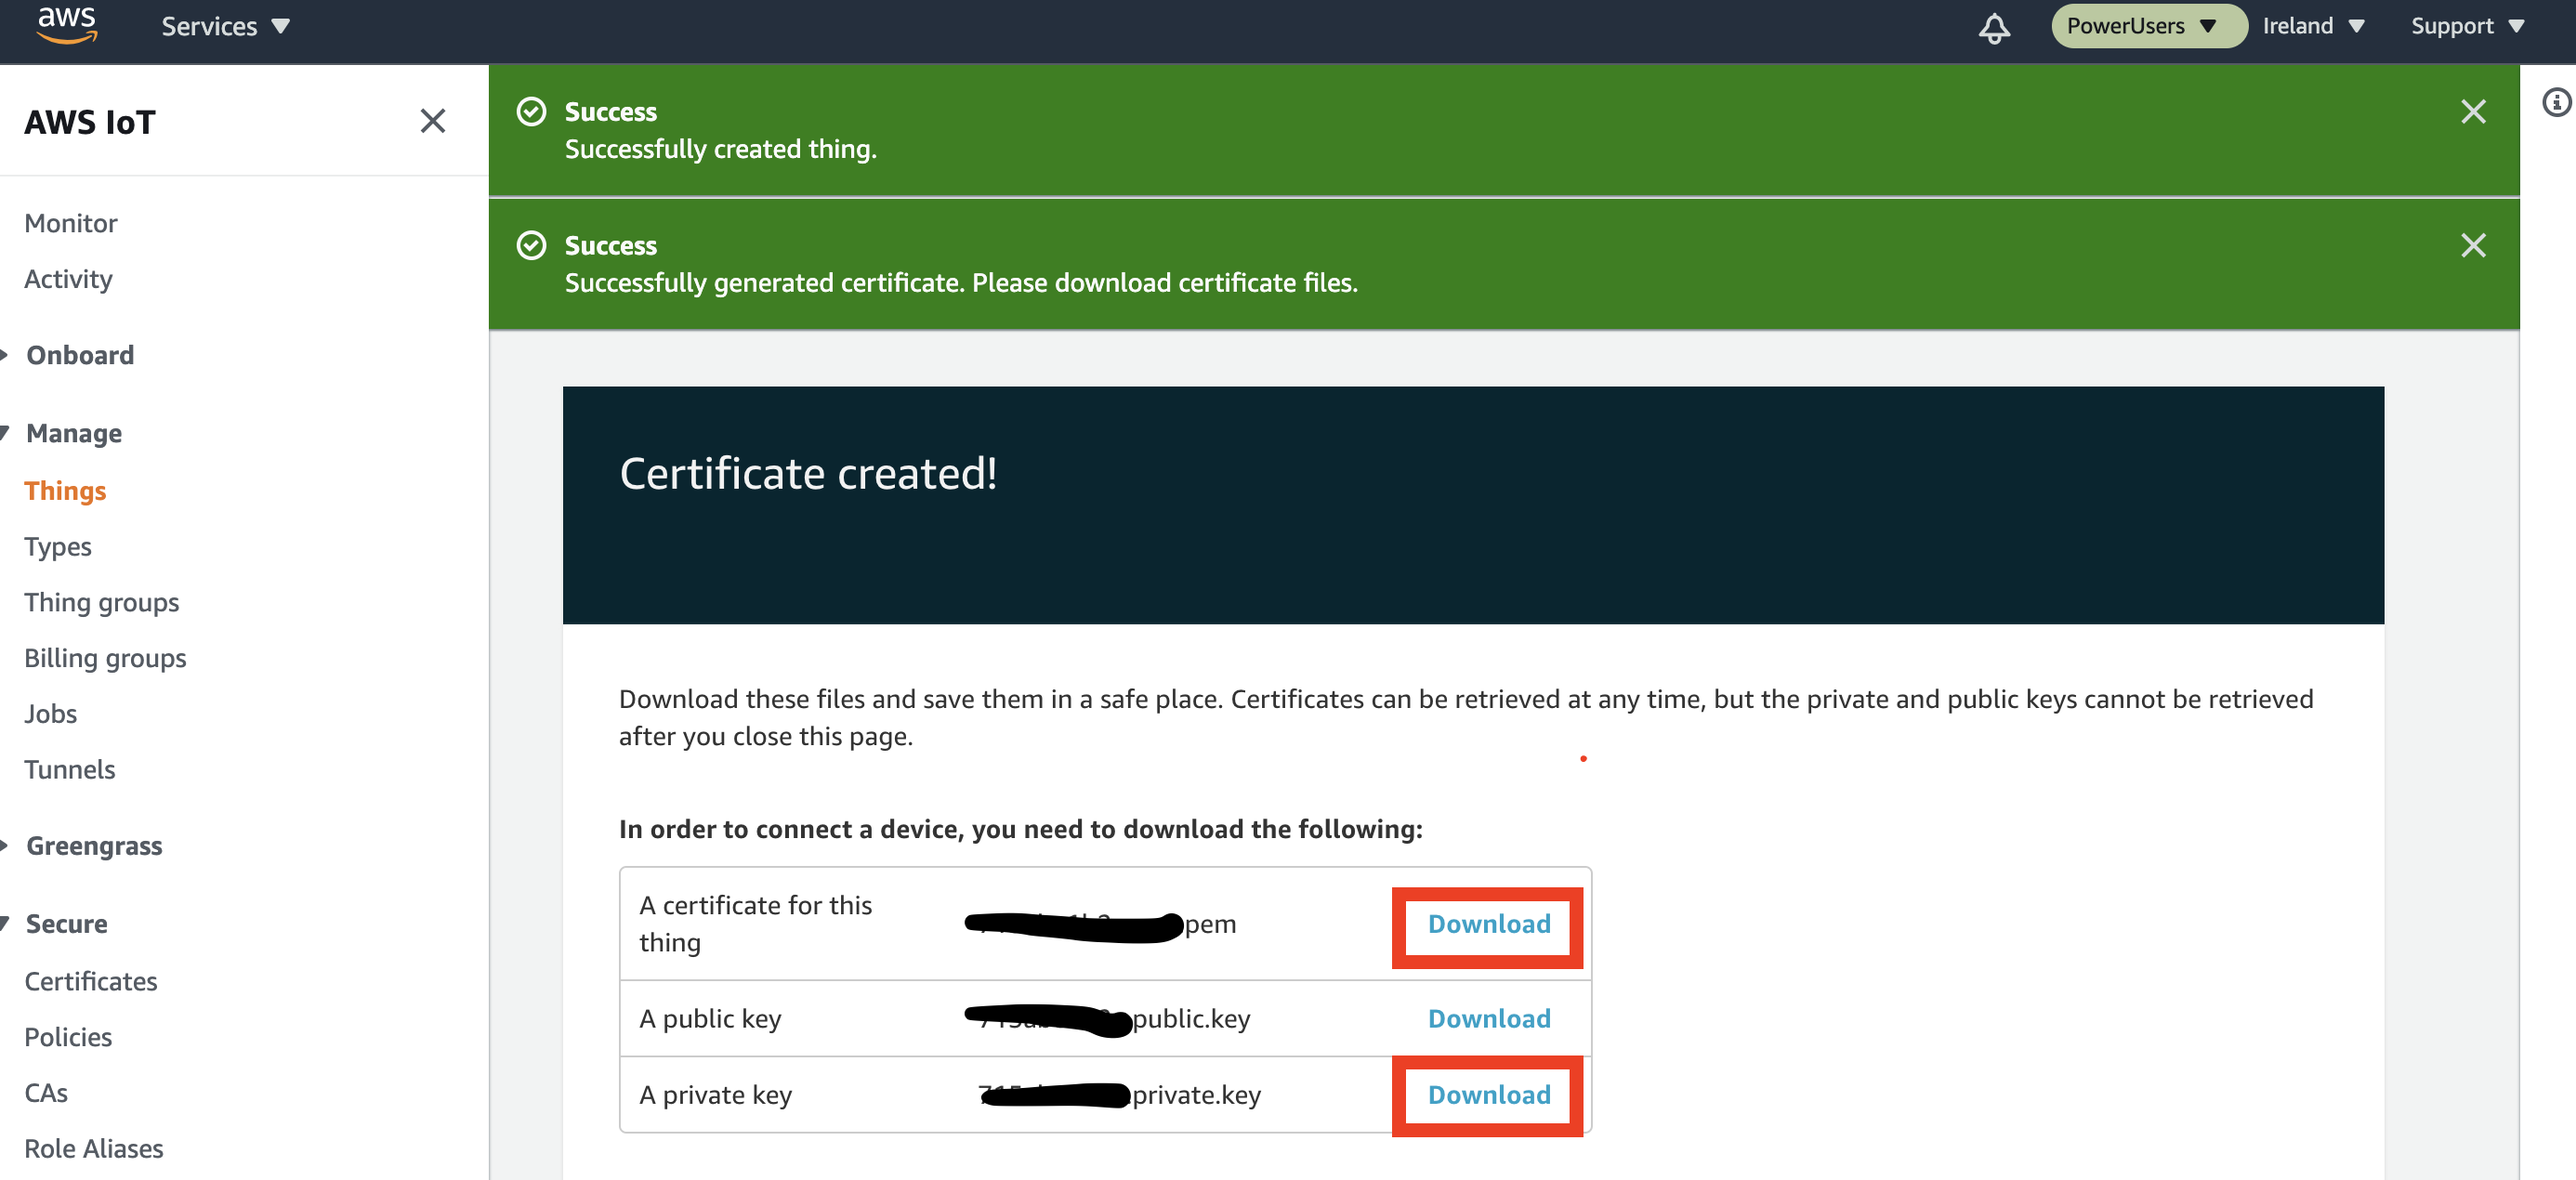
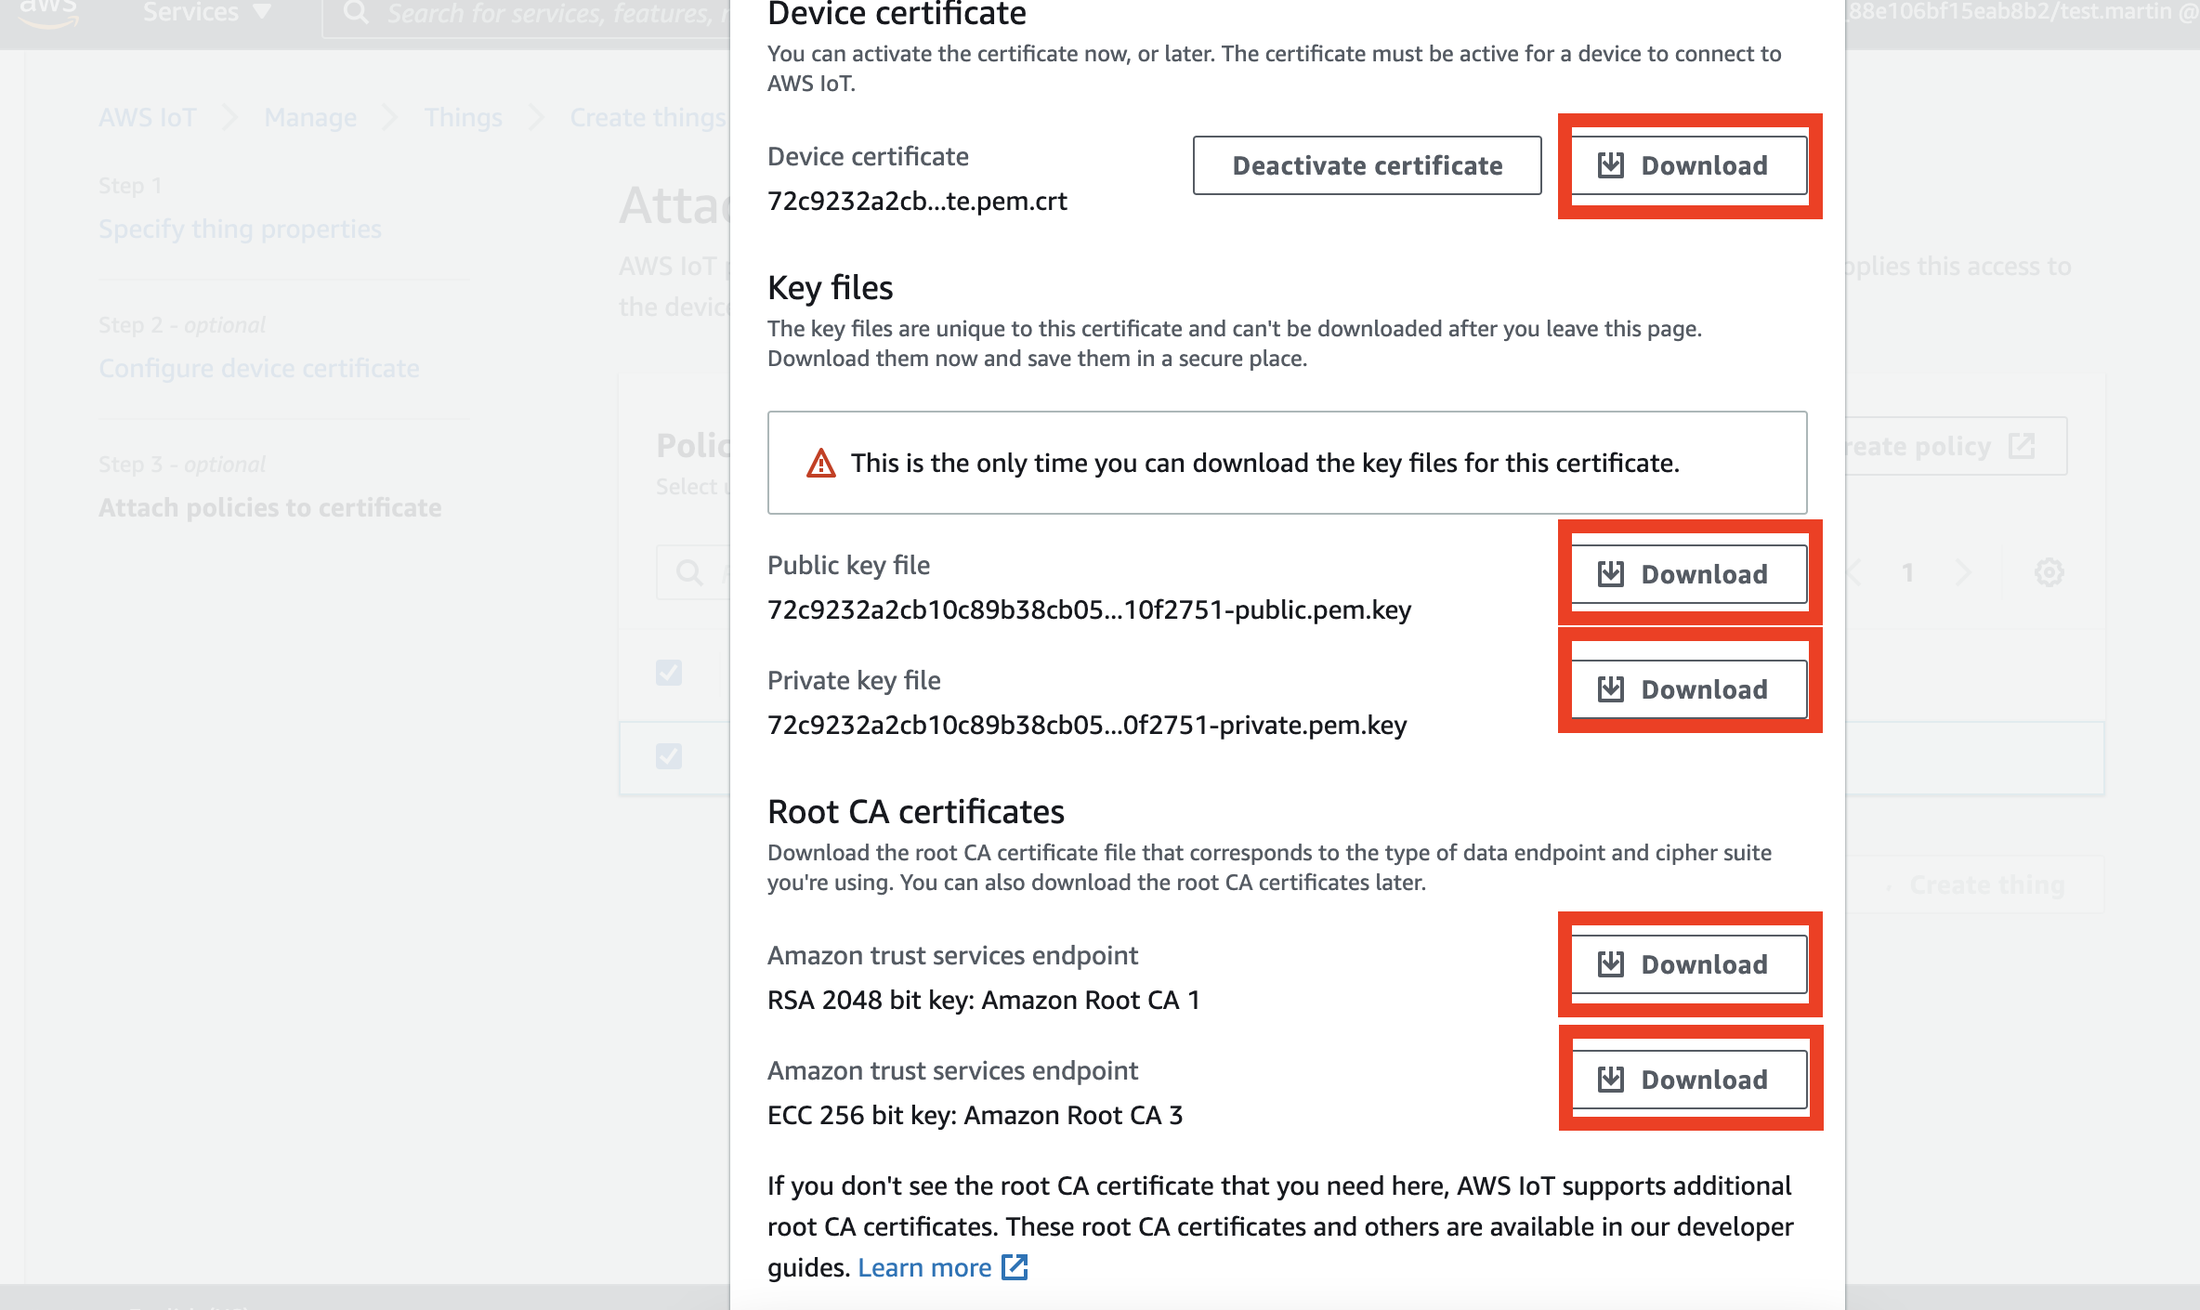
fix: some outdated screenshot

diff --git a/docs/1_publish_mqtt/README.md b/docs/1_publish_mqtt/README.md
@@ -53,7 +53,7 @@ __*Note*__: *You don't need to create a thing to connect to AWS IoT. However, th
 1. In the AWS IoT Core console, in the left navigation pane, choose Manage.
 ![](img/iot_core_manage.png)
 
-1. Choose Register a thing.
+1. Choose Create things.
 ![](img/iot_core_manage_thing.png)
 
 1. On the Creating AWS IoT things page, choose Create a single thing.
@@ -63,34 +63,15 @@ __*Note*__: *You don't need to create a thing to connect to AWS IoT. However, th
 Enter a Name for your thing. For example, `cxp_insa_tp_iot_thing`.
 ![](img/iot_core_manage_single_thing_name.png)
 
-1. On the Add a certificate for your thing page, choose Create certificate. You see notifications confirming that your thing and a certificate for your thing are created.
+1. On the Add a certificate for your thing page, choose Auto-generate a new certificate.
 ![](img/iot_core_manage_single_thing_certif.png)
+![](img/iot_core_manage_single_thing_certif_policy.png)
 
 1. On the Certificate created page, do the following:
 Under In order to connect a device, you need to download the following, choose Download for the certificate, and private key.
 ![](img/iot_core_manage_single_thing_dl.png)
 
 Save each of the downloaded files to `certificates` folder of this repo.
-
-Under You also need to download a root CA for AWS IoT, choose Download. The Server authentication page opens to CA certificates for server authentication.
-![](img/iot_core_manage_single_thing_ca1.png)
-
-1. Under Amazon Trust Services Endpoints (preferred), choose Amazon Root CA 1. The certificate opens in your browser.
-![](img/iot_core_manage_single_thing_ca2.png)
-
-1. Copy the certificate (everything from -----BEGIN CERTIFICATE----- to -----END CERTIFICATE-----) and paste it into a text editor.
-
-1. Save the certificate as `AmazonRootCA1.pem` to `certificates` folder of this repo..
-
-1. On the Certificate created page in the AWS IoT Core console, choose Activate. The button changes to Deactivate.
-
-1. Choose Attach a policy.
-![](img/iot_core_manage_single_thing_attach_policy.png)
-
-1. On the Add a policy for your thing page, do the following:
-Select the AWS IoT Core policy that you previously created. For example, admin.
-Choose Register Thing.
-![](img/iot_core_manage_single_thing_reg_thing.png)
 
 ### Copy the AWS IoT Core endpoint URL
 In this section:
@@ -99,7 +80,7 @@ In this section:
 1. In the AWS IoT Core console, in the left navigation pane, choose Settings.
 ![](img/iot_core_settings.png)
 
-1. On the Settings page, under Custom endpoint, copy the Endpoint. This AWS IoT Core custom endpoint URL is personal to your AWS account and Region. It is the entry point for your sensors messages.
+1. On the Settings page, under Device data endpoint, copy the Endpoint. This AWS IoT Core Device data endpoint URL is personal to your AWS account and Region. It is the entry point for your sensors messages.
 ![](img/iot_core_endpoint.png)
 
 ## AWS IoT Analytics

diff --git a/docs/3_visualization/README.md b/docs/3_visualization/README.md
@@ -80,15 +80,6 @@ In this section, we will use QuickSight to visualize data:
 1. Finalyze QuickSight account creation.
 ![](img/quicksight_welcome.png)
 
-1. Grant QuickSight permission to access IoT Analytics: __Manage QuickSight__>__Security & permissions__>__Add or remove__
-![](img/quicksight_manage.png)
-
-1. Select __AWS IoT Analytics__
-![](img/quicksight_add_permission.png)
-
-1. Verification
-![](img/quicksight_verify_permission.png)
-
 ### Create an Analyse
 
 1. Add dataset

diff --git a/docs/2_temperature_extraction/README.md b/docs/2_temperature_extraction/README.md
@@ -127,9 +127,6 @@ An AWS IoT Analytics Pipeline consumes messages from one or more Channels. Pipel
 1. After pipeline creation, Select `cxp_insa_tp_iot_pipeline`
 ![](img/iot_analytics_pipeline_create_13.png)
 
-1. After pipeline creation, Select `cxp_insa_tp_iot_pipeline`
-![](img/iot_analytics_pipeline_create_13.png)
-
 1. __Reprocess messages__
 ![](img/iot_analytics_pipeline_create_14.png)
 

diff --git a/docs/5_machine_learning/README.md b/docs/5_machine_learning/README.md
@@ -1,4 +1,4 @@
-# Session 5
+# Session 5(optional)
 How to use IoT Analytics Dataset to train a machine learning model?
 
 ## Architecture
